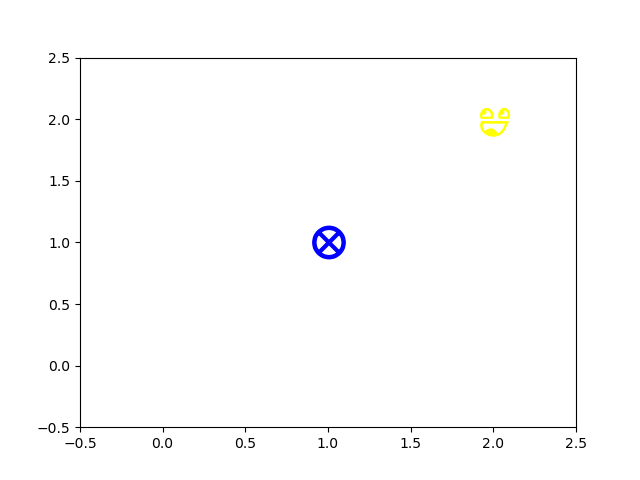
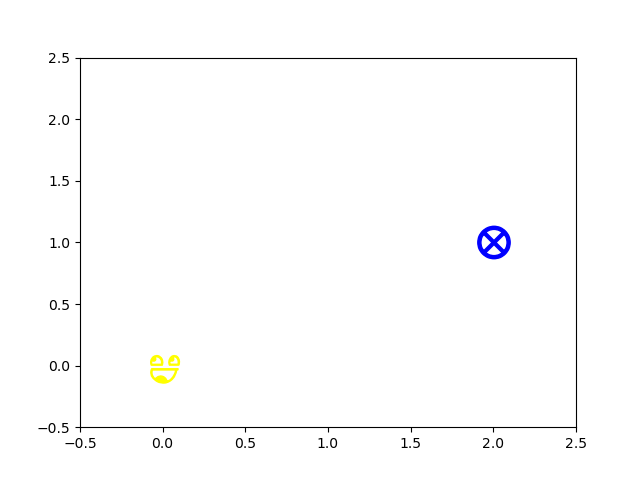
fixed overwriting

diff --git a/robot_plotter.py b/robot_plotter.py
@@ -44,4 +44,4 @@ def plot_robot(policy, upMDP):
             plt.clf()
             #ax.clear()
             #plt.close()
-        ind = i
+        ind += i
